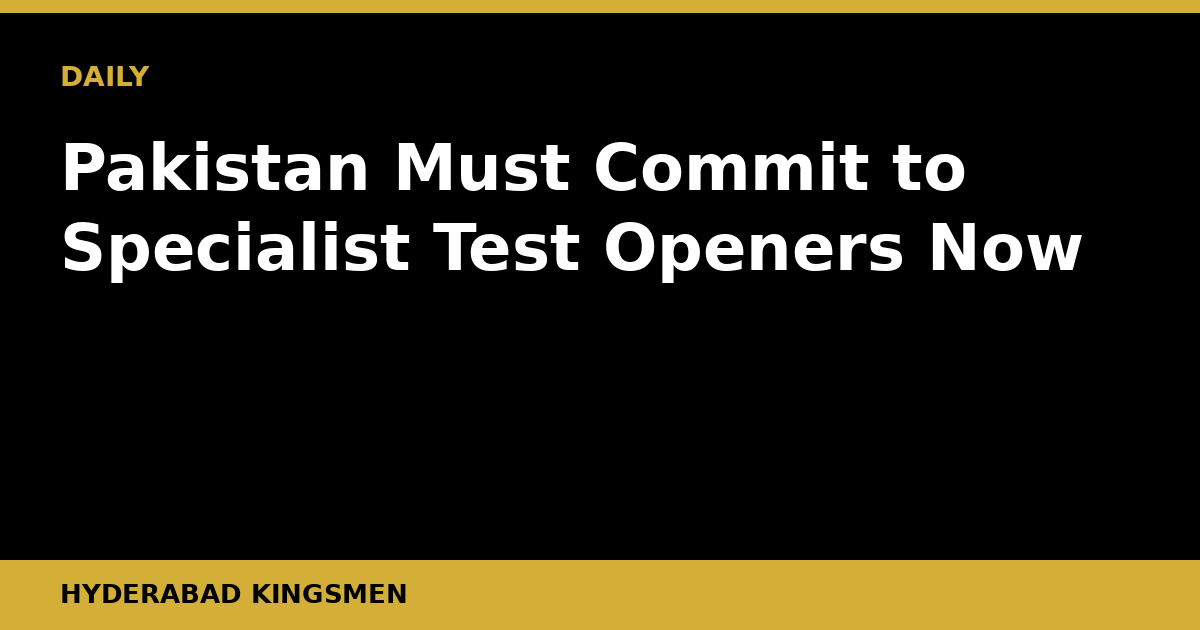
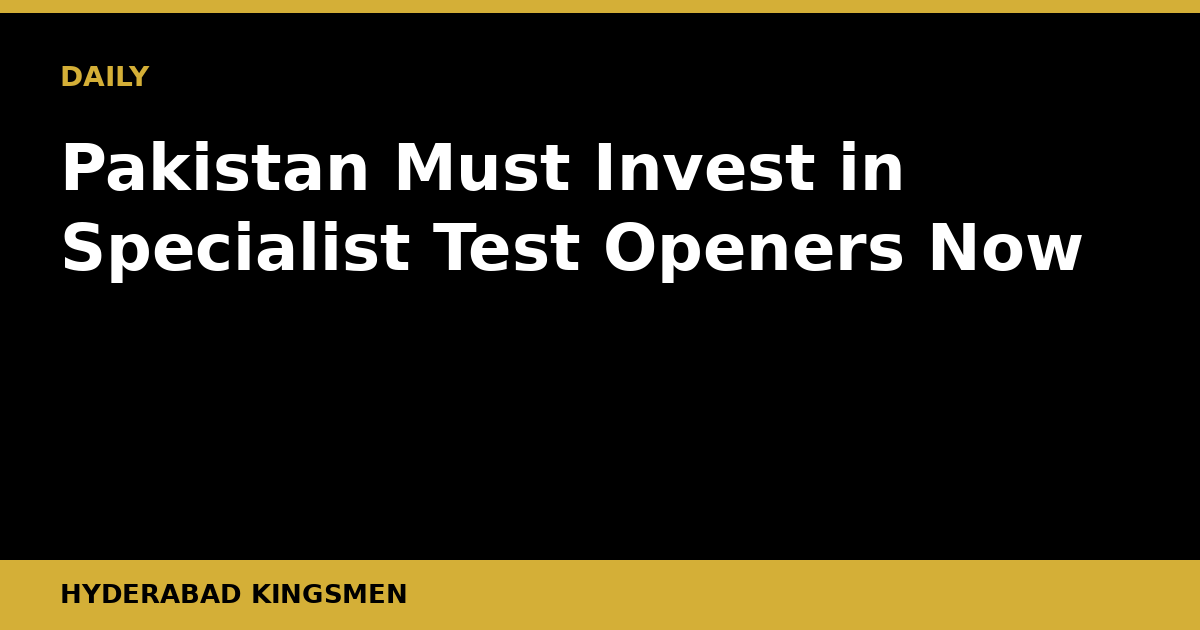
Daily post 2026-09-15

Changed region(s): [[0.4933, 0.2111, 0.8017, 0.3016]]

diff --git a/content/posts/pakistan-specialist-test-openers-2026-27-cycle.md b/content/posts/pakistan-specialist-test-openers-2026-27-cycle.md
@@ -1,45 +1,51 @@
 ---
-title: "Pakistan Must Commit to Specialist Test Openers Now"
+title: "Pakistan Must Invest in Specialist Test Openers Now"
 slug: "pakistan-specialist-test-openers-2026-27-cycle"
-date: "2026-08-10T03:08:23+05:00"
+date: "2026-09-15T05:38:16+05:00"
 draft: false
-description: "Pakistan's Test opening woes have dragged on long enough. The 2026-27 cycle is the moment to stop tinkering and back proven top-order specialists."
+description: "Pakistan's opening partnerships have been a chronic weakness in Test cricket. The 2026-27 cycle offers a genuine window to fix the problem before it becomes a crisis."
 banner: "/banners/pakistan-specialist-test-openers-2026-27-cycle.png"
 kicker: "ANALYSIS"
 author: "Hyderabad Kingsmen"
 translationKey: "pakistan-specialist-test-openers-2026-27-cycle"
-tags: ["pakistan-cricket", "test-cricket", "pakistan-test-team", "batting", "selection", "red-ball-cricket", "quaid-e-azam-trophy"]
+tags: ["pakistan-cricket", "test-cricket", "pakistan-batting", "pakistan-selectors", "domestic-cricket", "quaid-e-azam-trophy"]
 categories: ["Analysis"]
 ---
 
-Pakistan's Test cricket has a recurring nightmare at the top of the order, and the selectors keep waking up, shrugging, and going back to sleep. With a demanding 2026-27 cycle on the horizon, the time for half-measures is over.
+Pakistan's Test batting has carried a structural fault for years, and it sits right at the top of the order. The 2026-27 cycle, with a packed home Test programme and tours to England and Australia on the horizon, demands that the selectors finally address it with intent rather than improvisation.
 
-## The Real Problem Behind the Revolving Door
+## The Real Problem Is Not Just Runs
 
-Since the retirement of Mohammad Hafeez and Ahmed Shehzad's fade from international relevance, Pakistan have cycled through opening combinations at a pace that would embarrass a county side in a relegation scrap. Shan Masood, Imam-ul-Haq, Abdullah Shafique, Saim Ayub, Fakhar Zaman in cameos — the list reads like a selection committee brainstorming session that never quite reached a conclusion.
+On the surface, the opening issue looks like a numbers problem: thin averages, too many early wickets, partnerships that collapse before the middle order can settle. But that is the symptom, not the disease. The deeper problem is that Pakistan has been filling the opener's slot with batters who are nominally top-order players rather than specialist Test openers shaped by the demands of the new ball.
 
-The root issue is not talent. Pakistan has batters. The issue is that the selection philosophy keeps blurring the line between formats. A batter earns a T20I reputation, gets a Test look, struggles with the discipline required to leave the ball outside off stump for 40 minutes, and is quietly cycled out before anyone admits the experiment failed. The nation's top order ends up bearing the cost of that identity confusion.
+There is a difference. A specialist Test opener studies opposition seamers, manages swing and seam movement session by session, understands leave discipline, and builds an innings around survival in the first hour before shifting gears. Pakistan's recent experiments have too often involved technically correct but fundamentally unsuited players being thrown at the role out of necessity. It has rarely worked sustainably.
 
-Specialist Test opening is a craft. It demands a particular mindset: the willingness to survive a new ball in difficult conditions, to bat time rather than manufacture runs, and to absorb pressure so that the middle order — Babar Azam, Saud Shakeel, Mohammad Rizwan — can function in a more settled environment. Trying to develop that craft while simultaneously managing a player's confidence across three formats is asking too much of both the player and the system.
+The 2026-27 scheduling reality makes this urgent. Australia away and England away in the same general cycle are not assignments for openers who are still finding themselves. Those are environments where even established, seasoned openers bleed.
 
-## What the 2026-27 Cycle Demands
+## Who Is Actually Available
 
-The schedule Pakistan face in this period includes tours and home series that will test their Test credentials seriously. Conditions in South Africa, England, and Australia punish technically deficient openers brutally. The seaming new ball in those environments does not care about a batter's PSL form or their white-ball strike rate. It asks one question: can you leave, defend, and survive long enough to let your team-mates win the match?
+This is where the conversation gets honest. Pakistan's domestic structure has produced a cluster of openers in recent seasons, but identifying which of them carry genuine Test-match temperament requires the selectors to watch them under pressure rather than cherry-pick performances from flat tracks.
 
-This is precisely why the selection committee needs to draw a sharp line. Identify two or three batters who are genuinely built for red-ball opening — technically sound, mentally patient, physically equipped for five-day cricket — and back them across this cycle regardless of a bad series or two. Consistency of selection breeds consistency of performance. Pakistan have rarely given their openers that chance.
+Saim Ayub, still young, has shown the kind of aggressive intent that modern Test cricket values at the top of the order. His footwork against pace is not yet complete, and he has been found out in conditions that demand a more measured approach. But the talent is real, and the window to build him into a proper Test opener is now, not in three years.
 
-Abdullah Shafique showed enough in patches to warrant real backing. Saim Ayub, when fit, has the technique and temperament to develop into a long-term option, but he needs to know Test cricket is his primary brief, not a staging post between T20 assignments. There may also be domestic talent in the Quaid-e-Azam Trophy that deserves a harder look, particularly among Sindh and Karachi's domestic circuit, which has quietly produced technically correct top-order players who have not yet been handed a proper audition.
+Abdullah Shafique had carved out a place before a dip in form cost him his spot. His technique against the moving ball is sounder than most of his contemporaries. Persisting with him through a difficult run rather than dropping him at the first crisis would have been the braver, smarter call. Pakistan's selectors have historically lacked that patience.
 
-## Stop Raiding the Middle Order
+Beyond these two, the cupboard is worryingly bare unless the selectors are willing to look seriously at the Quaid-e-Azam Trophy and grade cricket and identify left-field options before the cycle is fully underway.
 
-There is a lazy habit that must stop: converting middle-order batters into makeshift openers when the top order fails. It solves nothing. It unsettles the batter asked to do an unfamiliar job, and it creates a false ceiling for their actual development. Babar Azam opening in Tests is a conversation that surfaces every time Pakistan lose early wickets in the first session. It should not be. His value at number three or four, building on a platform, is too important to fritter away on crisis management.
+## What a Proper Approach Looks Like
 
-The selectors must ring-fence specialist roles. Openers open. Middle-order batters bat in the middle order. It sounds simple because it is simple, yet Pakistan keep complicating it.
+First, identify two or three candidates early in 2025 and give them an extended, defined run, not a two-Test audition. Chopping and changing openers mid-series sends the wrong message to the player and destabilises the top order further.
 
-## What to Watch Next
+Second, structure Pakistan's home Tests in the next twelve months so that at least some fixtures are played on surfaces that test the openers honestly. Preparing batters on docile tracks and then sending them to Brisbane or Leeds is negligence, not selection strategy.
 
-The immediate indicator will be how Pakistan name their squads for upcoming red-ball assignments. If the selectors default again to white-ball form as a shortcut to Test selection, expect more of the same fragile starts and chasing totals from positions of unnecessary difficulty.
+Third, involve Pakistan's batting consultants and coaches in working specifically with the top-order pair on leave discipline, off-stump awareness, and handling the Duke's ball in English conditions. These are coachable skills if the investment is made early enough.
 
-Watch, also, how the domestic structure responds. The PCB's red-ball competitions need to be the genuine pipeline they are supposed to be. If a batter accumulates significant runs in the Quaid-e-Azam Trophy as an opener across multiple seasons and is still ignored, the system is broken at the source, not just at the selection table.
+Fourth, consider the role of the first-class programme more seriously. The Quaid-e-Azam Trophy, Pakistan's premier red-ball competition, should be the primary scouting ground. If a batter is dominating there on genuine pitches, he deserves a harder look than someone who impressed in a T20 and has been retrofitted into the Test side.
 
-Pakistan's Test batting has the match-winners in Babar, Saud, and a bowling attack that can dismiss sides. What it lacks is the platform those match-winners need. Fixing the top of the order, properly and patiently, is the single biggest lever available to Pakistan Test cricket right now. The 2026-27 cycle is not a dress rehearsal. It is the exam.
+## What to Watch
+
+The next home Test series, whatever the opposition, should be treated as a laboratory. Watch whether the selectors pick openers with a plan or simply default to whoever is in form across formats. Watch whether Saim Ayub is given room to fail and learn, or is dropped the moment he has a bad series. Watch whether the coaching setup addresses the technical gaps that opposition seamers have consistently targeted.
+
+The 2026-27 away tours will arrive whether Pakistan is ready or not. The only question is whether the selectors use the time between now and then to build proper Test openers, or whether they spend it hoping the problem resolves itself. History suggests the latter is more likely. History also suggests that approach ends badly in Australia and England.
+
+The case for action is not complicated. The will to act is the only variable that matters.
